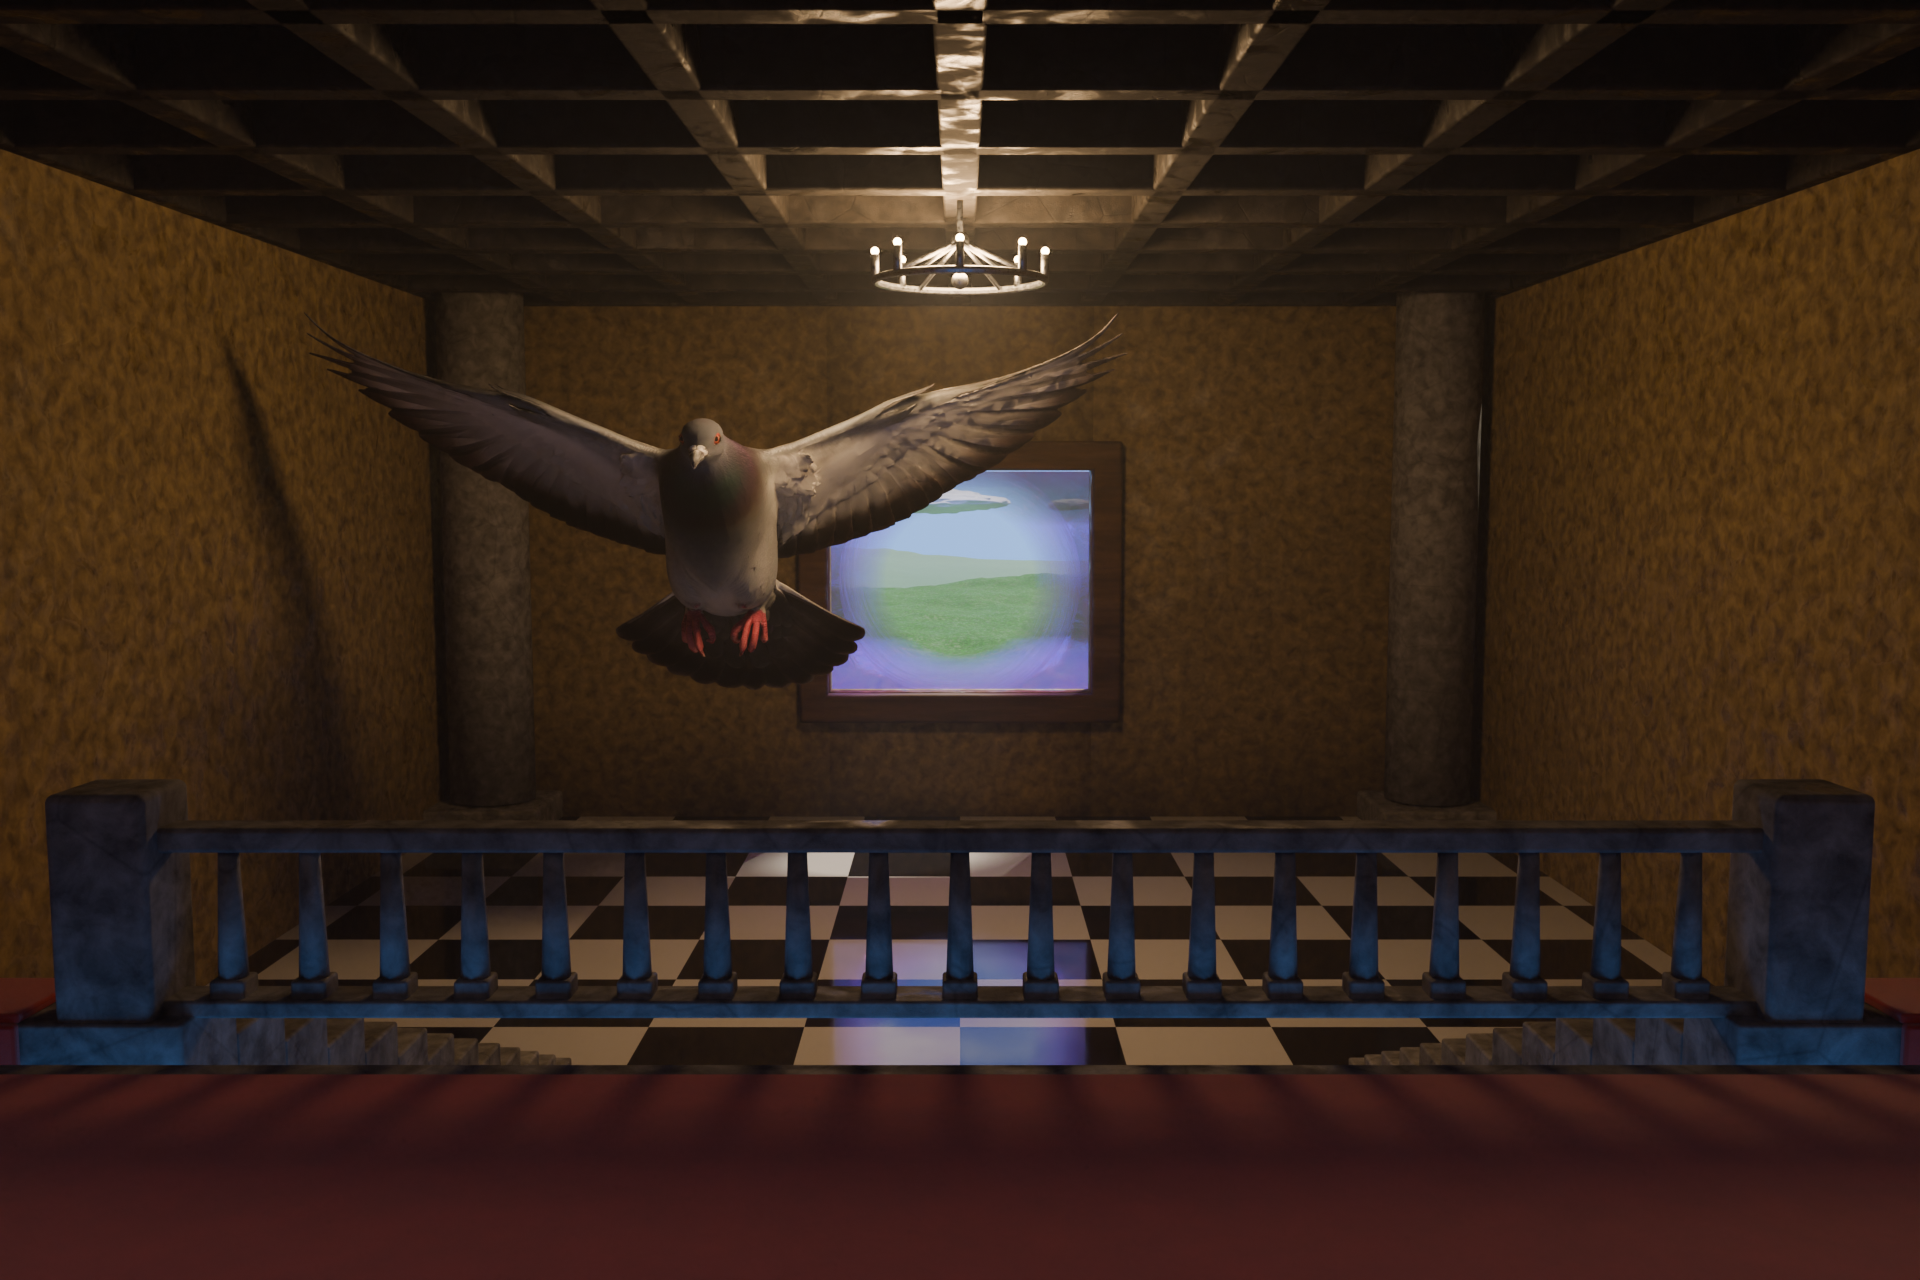
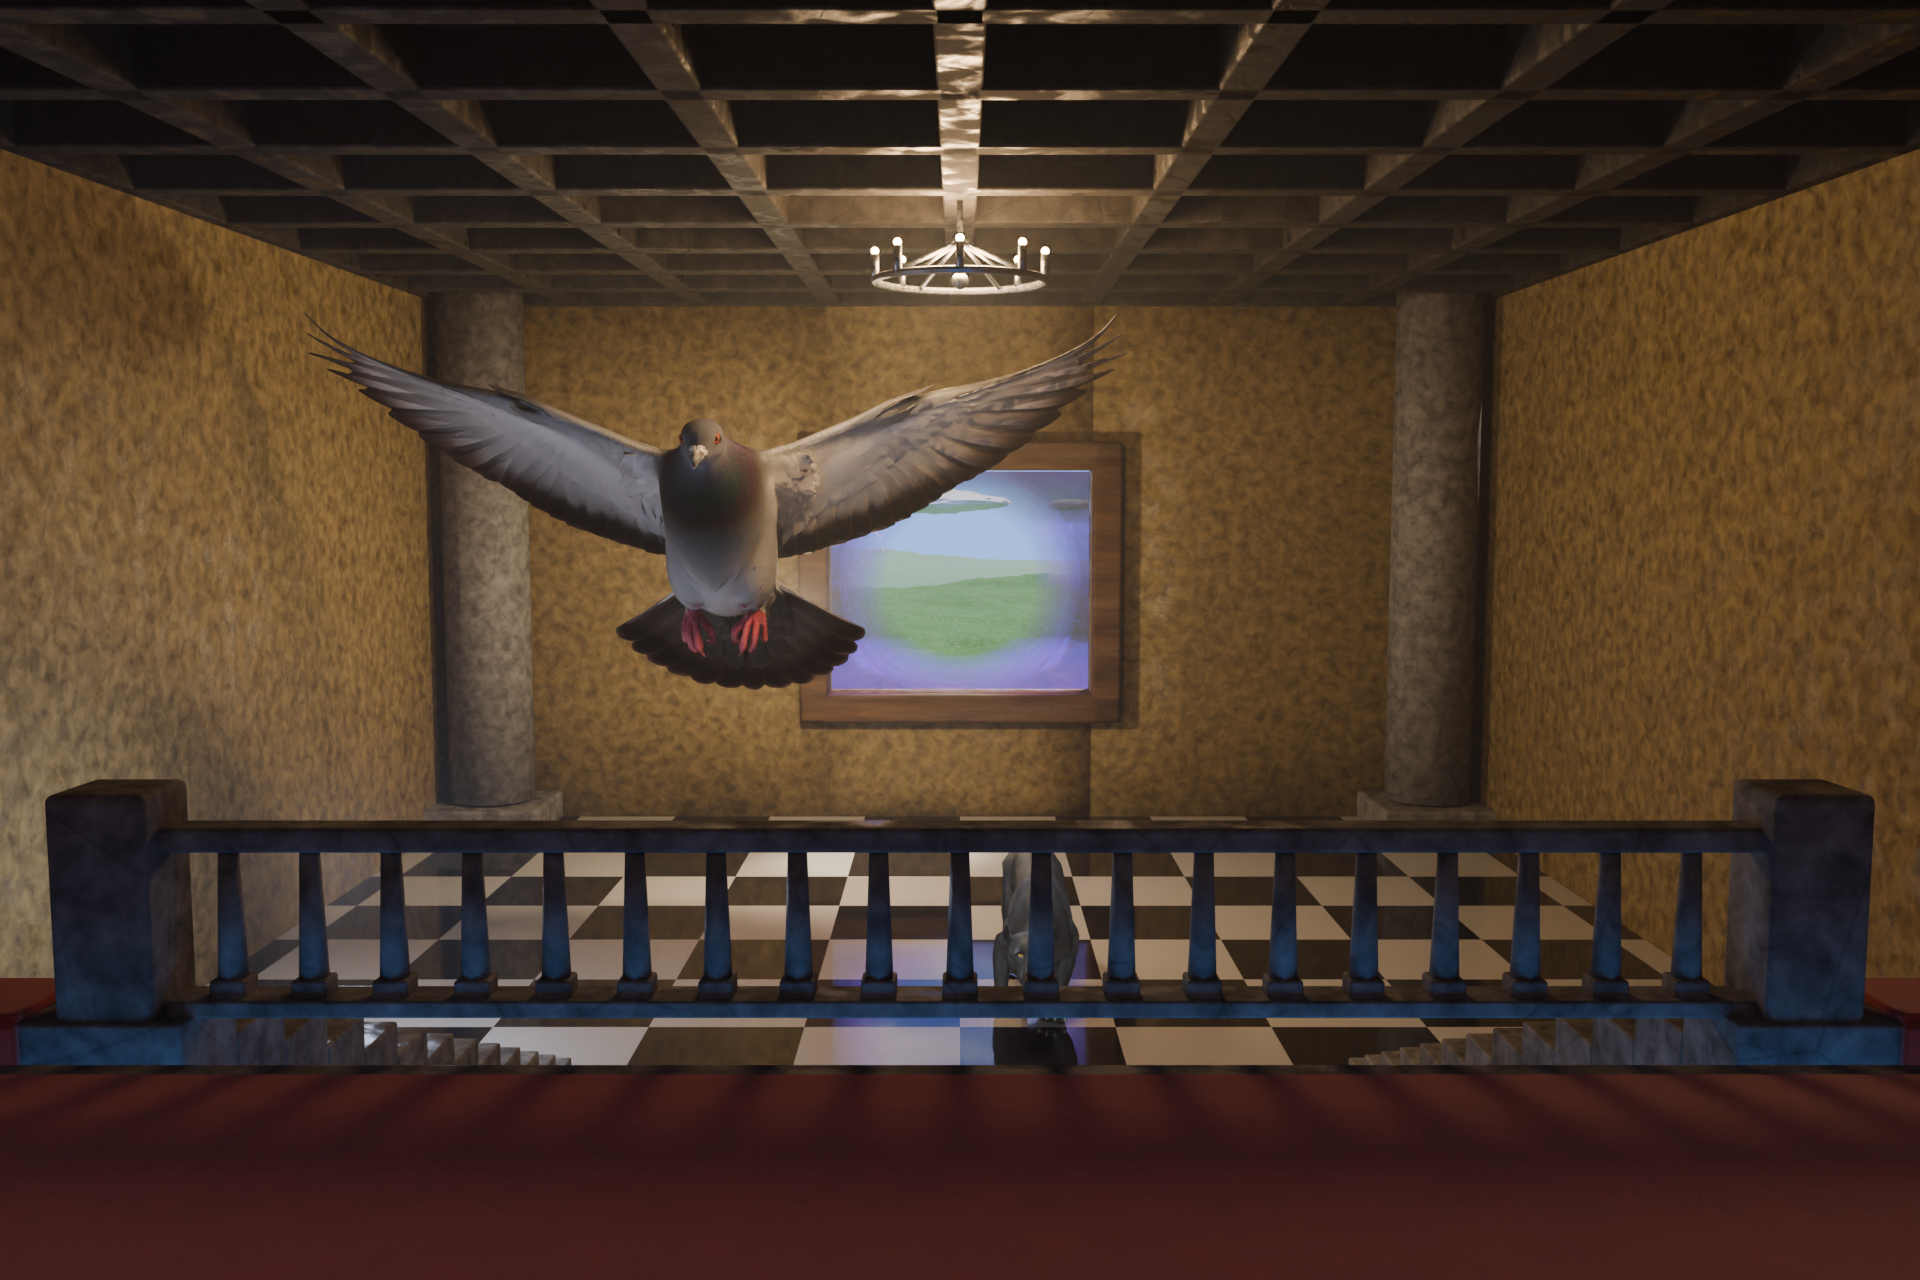
Two headings crossing, and a rail in shot
The cat is 5.5 m nose to tail, up from 2.2, and back at y=13.6.

The two headings are set against each other now rather than merely differing.
The cat takes the line the bird has just come off -- yaw -25, which was the
bird's -- and the bird turns to +27 and comes at the lens. Their paths cross
at about fifty degrees. Two things moving the same way in one picture read as
one event; two crossing read as two, which is the reason to have both.

The bird's yaw is per view, and that is a decision rather than an oversight:
-25 brings it at the balcony lens and +27 at the one on the stair. Same bird,
same place, turned to meet whoever is looking. A backdrop is a picture, not a
simulation, and nothing in either frame can tell you the other exists.

The camera moved to the head of the flight, because that is the only place
the rail can be in shot. The balustrade stands at y=1.3 and the picture at
y=23.6, and from anywhere down the stairs those two are more than ninety
degrees apart -- wider than any lens here holds without bending the room.
From the top they close to about sixty and both fit: measured, the rail's end
lands 32 degrees off axis against a 35-degree half frame, which puts it at
the left edge where a foreground element belongs.

diff --git a/art/blender/scenes.py b/art/blender/scenes.py
@@ -2465,9 +2465,15 @@ def painted_hall(path, mood="noon", view="balcony"):
     # it, which matters because a wing aimed at the lens has no width. The
     # position is not a guess -- a ray through the middle of the mark, taken
     # out to twelve metres, lands at (-6.6, 5.5).
+    # Yaw is per view, and that is a decision rather than an oversight. The
+    # model faces -Y, so -25 brings it at the balcony lens and +27 brings it
+    # at the one on the stair -- the same bird in the same place, turned to
+    # meet whoever is looking. A backdrop is a picture, not a simulation, and
+    # nothing in either frame can tell you the other exists.
     borrowed("pigeon", (-3.3, 15.2, 6.10), 11.2,
              rotation=(math.radians(-9.0), math.radians(-19.0),
-                       math.radians(-25.0)), name="Pigeon")
+                       math.radians(27.0 if view == "stair" else -25.0)),
+             name="Pigeon")
 
     # A membrane across the opening, so it stops being a window.
     #
@@ -2511,13 +2517,14 @@ def painted_hall(path, mood="noon", view="balcony"):
     # An animated asset already contains every attitude it can hold; getting
     # one out of it is a matter of finding the frame, not of moving bones.
     #
-    # Heading is the other half of it. The bird is coming at the camera and
-    # to the left; the cat crosses the frame the other way, at roughly a
-    # right angle to the view. Two things moving the same way in one picture
-    # read as one event, and the whole reason for having both is that they
-    # are not.
-    borrowed("panther", (2.3, 10.9, 0.02), 2.2,
-             rotation=(0.0, 0.0, math.radians(120.0)), frame=247,
+    # Heading is the other half of it, and the two are set against each other
+    # deliberately: the cat takes the line the bird has just come off -- yaw
+    # -25, which was the bird's -- while the bird turns to +27 and comes at
+    # the lens. Their paths cross at about fifty degrees. Two things moving
+    # the same way in one picture read as one event; two things crossing read
+    # as two, which is the whole reason for having both.
+    borrowed("panther", (1.0, 13.6, 0.02), 5.5,
+             rotation=(0.0, 0.0, math.radians(-25.0)), frame=247,
              name="Panther")
 
     # A black cat in a dim room is a hole in the floor. Two lamps, neither of
@@ -2532,9 +2539,9 @@ def painted_hall(path, mood="noon", view="balcony"):
     # these two was that they do their work without being seen. Tucked
     # in behind the bird as well, so what glow it puts in the room's air
     # is behind something rather than hanging on the wall by itself.
-    look.point_light((-2.2, 16.8, 4.20), energy=850, radius=0.30,
+    look.point_light((-2.6, 18.4, 4.60), energy=980, radius=0.30,
                      color=(1.0, 0.760, 0.480))
-    look.point_light((-6.4, 7.4, 2.10), energy=240, radius=0.60,
+    look.point_light((-6.8, 9.6, 2.40), energy=300, radius=0.60,
                      color=(0.600, 0.730, 1.000))
 
     # --- light -----------------------------------------------------------
@@ -2612,12 +2619,14 @@ def painted_hall(path, mood="noon", view="balcony"):
         # thirteen, so at y=5.2 the surface is about 2.0 and the lens wants to
         # be a person's height above that, not a person's height above zero.
         #
-        # Aimed down, and back a couple of metres. Pointed at the picture
-        # the cat sat 28 degrees off the axis against a 24-degree half
-        # frame -- below the bottom edge, on a floor nobody could see. The
-        # aim has to include the floor if the thing standing on it is
-        # meant to be in the shot.
-        look.camera((8.20, 3.40, 3.95), (-1.5, 17.5, 2.60), lens=26)
+        # At the head of the flight rather than part way down it, because
+        # the rail has to be in shot. The balustrade stands at y=1.3 and the
+        # picture at y=23.6, and from anywhere down the stairs those two are
+        # more than ninety degrees apart -- wider than any lens here can hold
+        # without bending the room. From the top they close to about sixty
+        # and both fit: measured, the rail's end lands 32 degrees off axis
+        # against a 35-degree half frame, which puts it at the left edge.
+        look.camera((8.35, 0.60, 4.55), (-3.5, 12.0, 3.40), lens=26)
     else:
         look.camera((0.0, -7.6, 6.55), (0.0, DEEP, 3.55), lens=30)
     look.view_transform("AgX", look="High Contrast",
